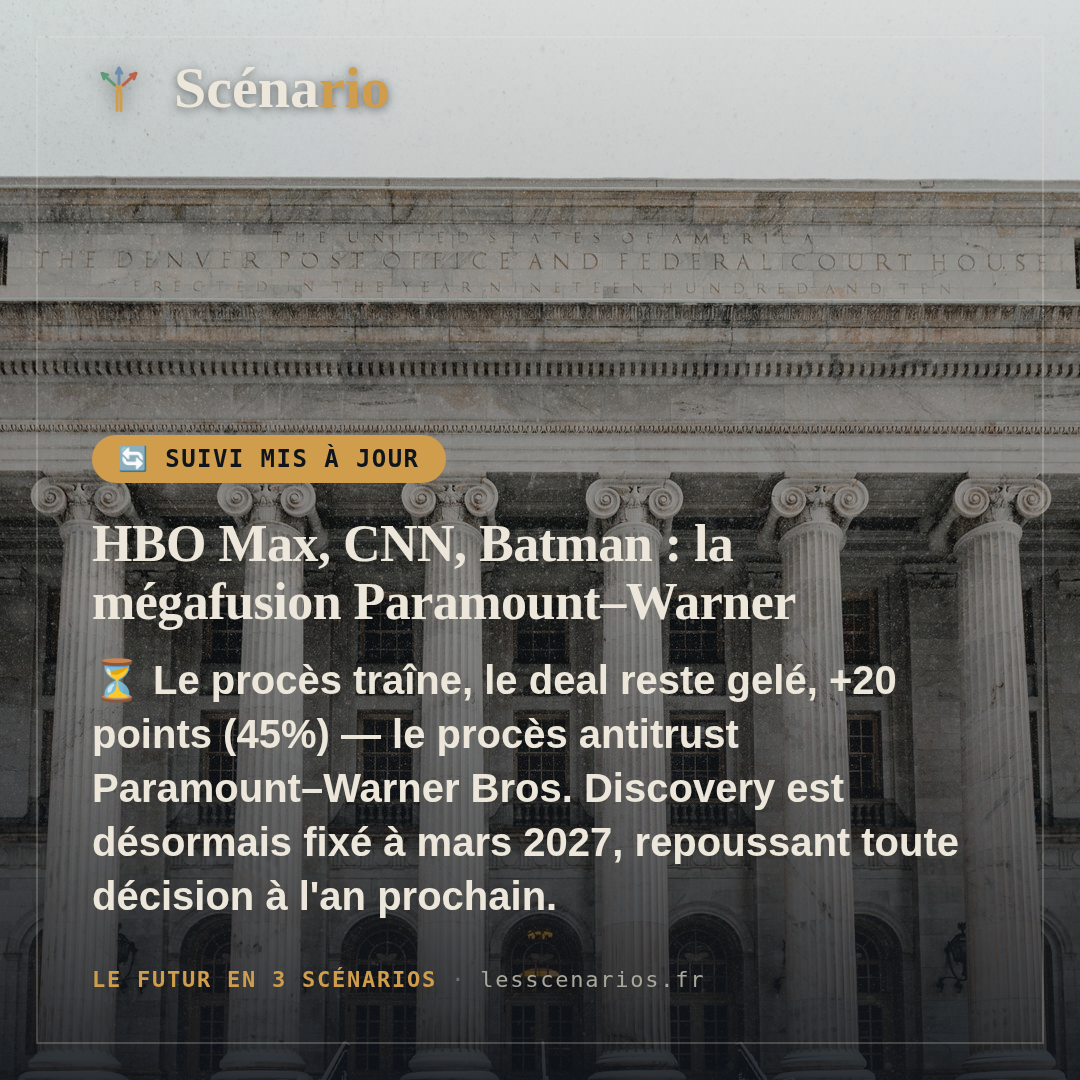
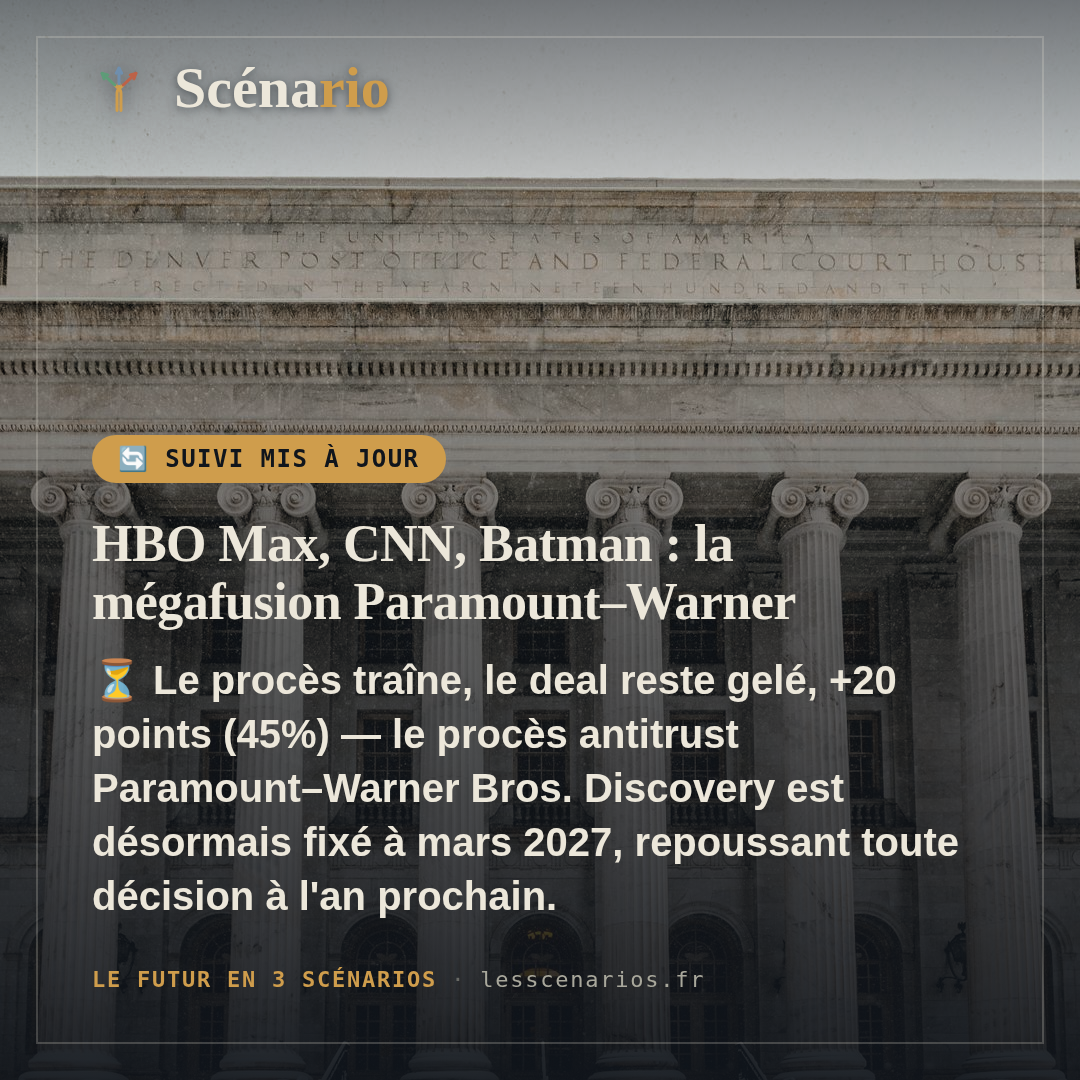
Suivi : voile plus marqué avec vrai dégradé noir en haut (retour utilisateur)
Le pub reste inchangé (validé tel quel) ; le suivi porte un paragraphe
entier (conclusion), pas une phrase courte, et avait besoin d'un
assombrissement propre pour que logo + texte ressortent.

diff --git a/scripts/social/suivi-template.html b/scripts/social/suivi-template.html
@@ -22,14 +22,18 @@
     background-image:url(__PHOTO_SRC__);
     background-size:cover; background-position:center;
   }
-  /* Même voile que le gabarit pub v4 depuis le 14 août (retour
-     utilisateur commun aux deux : "cohérence", photo qui reste le sujet
-     visuel, voile juste assez fort pour la lisibilité du texte du bas). */
+  /* Voile propre au suivi, plus marqué que le gabarit pub v4 — retour
+     utilisateur du 14 août : contrairement à pub (validé tel quel), le
+     suivi porte un paragraphe entier (conclusion), pas une phrase
+     courte, et a besoin d'un vrai dégradé noir en haut (logo + pastille)
+     et d'un assombrissement plus général pour que le texte ressorte.
+     Toujours une fenêtre plus claire au milieu pour laisser la photo
+     respirer un minimum. */
   .scrim{
     position:absolute; inset:0;
-    background: linear-gradient(180deg, rgba(16,21,28,0.14) 0%, rgba(16,21,28,0.38) 55%, rgba(16,21,28,0.86) 100%);
+    background: linear-gradient(180deg, rgba(16,21,28,0.58) 0%, rgba(16,21,28,0.22) 18%, rgba(16,21,28,0.24) 34%, rgba(16,21,28,0.58) 52%, rgba(16,21,28,0.92) 100%);
   }
-  .tint{ position:absolute; inset:0; mix-blend-mode: color; background: var(--gold); opacity:0.08; }
+  .tint{ position:absolute; inset:0; mix-blend-mode: color; background: var(--gold); opacity:0.14; }
 
   .frame{ position:absolute; inset:36px; border: 2px solid rgba(236,231,218,0.22); z-index:1; pointer-events:none; }
 
